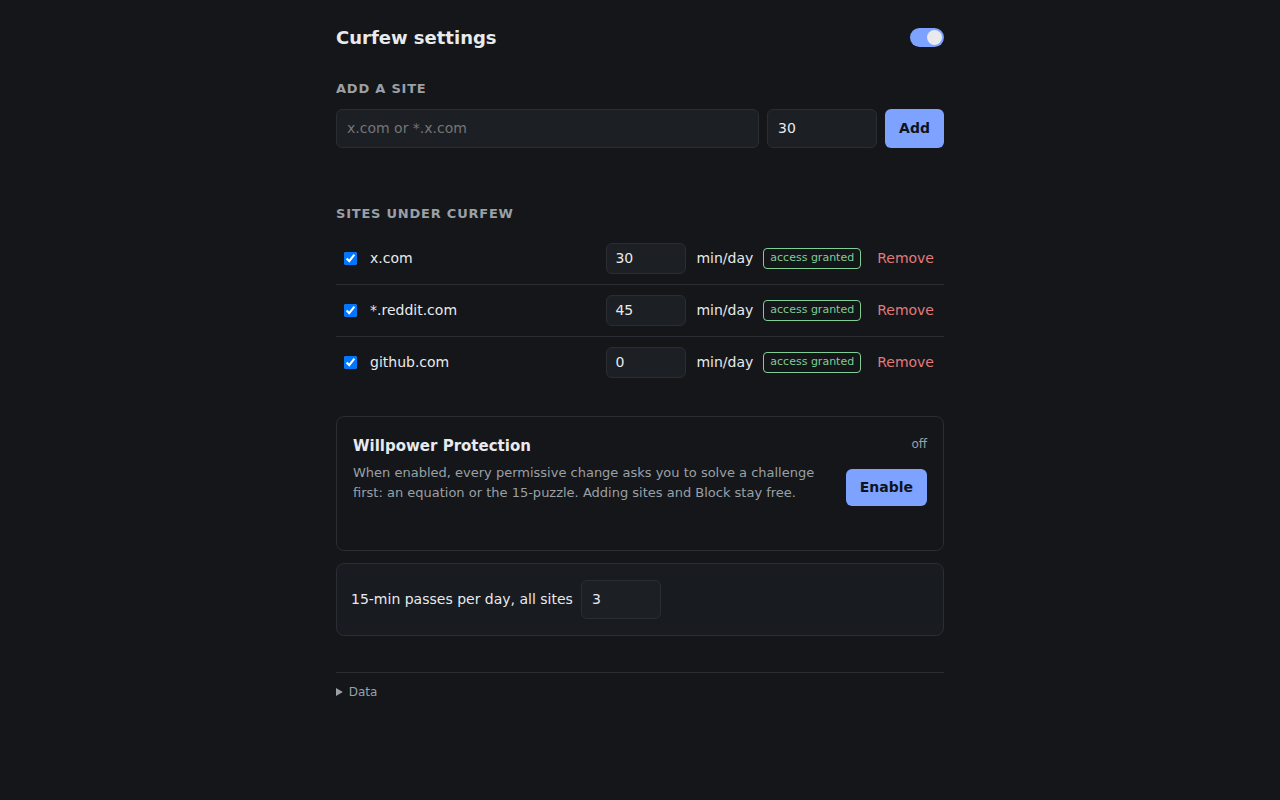
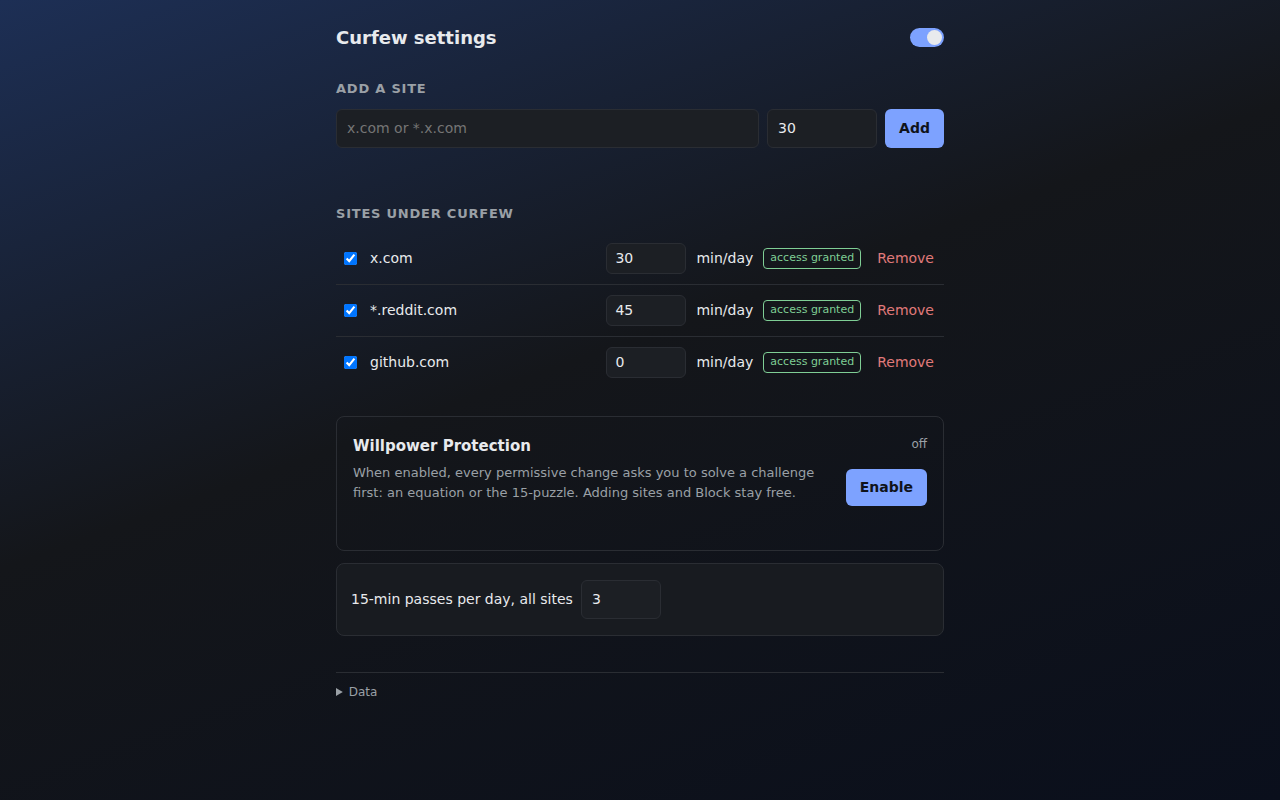
feat: protection gates relaxation only; stay-anyway is challenge-free; night gradients for wall/options

Changed region(s): [[0.0, 0.0, 0.7188, 0.4062]]

diff --git a/src/options.js b/src/options.js
@@ -117,17 +117,16 @@ function buildRow(item) {
   budget.value = item.budgetMinutes;
   budget.addEventListener("change", async () => {
     const v = Math.max(0, Math.min(1440, Number(budget.value) || 0));
-    const done = await guarded(async () => {
+    const apply = async () => {
       await update((state) => {
         const it = state.config.items.find((i) => i.id === item.id);
         if (it) it.budgetMinutes = v;
       });
-    });
-    if (!done) {
-      budget.value = item.budgetMinutes;
-      return;
-    }
-    budget.value = v;
+      budget.value = v;
+    };
+    if (v <= item.budgetMinutes) return apply();
+    const done = await guarded(apply);
+    if (!done) budget.value = item.budgetMinutes;
   });
 
   const unit = document.createElement("span");
@@ -301,16 +300,15 @@ els.protectToggle.addEventListener("click", async () => {
 els.passesLimit.addEventListener("change", async () => {
   const previous = (await load()).config.unblockPassesPerDay;
   const value = Math.max(0, Math.min(99, Number(els.passesLimit.value) || 0));
-  const done = await guarded(async () => {
+  const apply = async () => {
     await update((state) => {
       state.config.unblockPassesPerDay = value;
     });
-  });
-  if (!done) {
-    els.passesLimit.value = previous;
-    return;
-  }
-  els.passesLimit.value = value;
+    els.passesLimit.value = value;
+  };
+  if (value <= previous) return apply();
+  const done = await guarded(apply);
+  if (!done) els.passesLimit.value = previous;
 });
 els.export.addEventListener("click", exportData);
 

diff --git a/src/blocked.js b/src/blocked.js
@@ -2,7 +2,6 @@ import { load } from "./common/storage.js";
 import { dayKey } from "./common/time.js";
 import { parsePattern, matchesHost } from "./common/patterns.js";
 import { secondsUsedToday, passesLeftToday } from "./common/budget.js";
-import { guarded } from "./protect.js";
 
 const msg = (key) => chrome.i18n.getMessage(key);
 
@@ -50,24 +49,19 @@ async function init(domain) {
   stay.addEventListener("click", async () => {
     stay.disabled = true;
     let response;
-    const done = await guarded(async () => {
-      try {
-        response = await chrome.runtime.sendMessage({
-          type: "unblock:request",
-          itemId: item.id,
-        });
-      } catch {
-        response = null;
-      }
-      return Boolean(response?.ok);
-    });
-    if (done && response?.ok) {
+    try {
+      response = await chrome.runtime.sendMessage({
+        type: "unblock:request",
+        itemId: item.id,
+      });
+    } catch {
+      response = null;
+    }
+    if (response?.ok) {
       location.href = `https://${domain}/`;
     } else if (response?.reason === "limit") {
       stay.disabled = true;
       document.getElementById("hint").textContent = msg("limitReached");
-    } else if (!done) {
-      stay.disabled = false;
     } else {
       stay.disabled = false;
       document.getElementById("hint").textContent = msg("unblockFailed");

diff --git a/src/options.css b/src/options.css
@@ -14,7 +14,7 @@ body {
   max-width: 640px;
   margin: 0 auto;
   padding: 24px 16px;
-  background: var(--bg);
+  background: linear-gradient(160deg, #1d2f55 0%, #14161a 45%, #0a0f1c 100%) fixed;
   color: var(--fg);
   font: 14px/1.5 system-ui, sans-serif;
 }

diff --git a/src/blocked.css b/src/blocked.css
@@ -12,7 +12,7 @@ body {
   min-height: 100vh;
   display: grid;
   place-items: center;
-  background: var(--bg);
+  background: linear-gradient(135deg, #1d2f55 0%, #0a0f1c 75%);
   color: var(--fg);
   font: 16px/1.6 system-ui, sans-serif;
 }

diff --git a/docs/PROJECT.md b/docs/PROJECT.md
@@ -95,13 +95,13 @@ budget.
 - "Block now" (hard block without waiting for the budget) — free;
 - Adding sites: via the form or right-click → "Add this site to Curfew" —
   free;
-- **Protected mode** (optional): instead of a password, permissive actions
-  ask you to solve a challenge first — a multi-term equation with brackets
-  (5-7 terms, random every time, integer answer) or a 15-puzzle. The
-  choice is made once at enable time; solving again is required for stay
-  anyway, disabling a site or the app, budget edits, removes, import,
-  passes limit. Adding sites and Block stay free. The friction IS the
-  lock — deliberate by design.
+- **Protected mode** (optional): instead of a password, RELAXING the rules
+  asks you to solve a challenge first — a multi-term equation with brackets
+  (5-7 terms, random every time, integer answer) or a 15-puzzle: disabling
+  a site or the app, raising a budget or the passes limit, removes, import.
+  **Tightening stays free** (Block now, lower budgets), and so do adding
+  sites and planned 15-minute passes. The friction IS the lock — deliberate
+  by design.
 - Global daily cap on 15-min passes across all sites (default 3,
   0 = none).
 

diff --git a/docs/TECHNICAL_DESIGN.md b/docs/TECHNICAL_DESIGN.md
@@ -525,7 +525,9 @@ forms tested against tricky hosts (`||x.company/` must not match
 
 ### 9.4 Unblock window ("stay anyway")
 
-- Shown on the wall; in protected mode requires the password (guarded()).
+- Shown on the wall; PASS-through in protected mode — a 15-minute pass is
+  PLANNED use, not a relaxation, so no challenge is asked (the global
+  passes limit still applies).
   Pressing sets `runtime.unblockUntil[pattern] = now + unblockMinutes`,
   increments today's `unblocks[pattern]`, removes the rule, schedules the
   re-add alarm.
@@ -566,7 +568,7 @@ connection):
 | Message | From | Effect |
 |---|---|---|
 | `{type: "blockNow", itemId}` | popup | mark closed now → reconcile rules + redirect open tabs |
-| `{type: "unblock:request", itemId}` | blocked page | passes-limit check + challenge guard + policy (§9.4) → open window |
+| `{type: "unblock:request", itemId}` | blocked page | passes-limit check + policy (§9.4) → open window (no challenge: planned use) |
 | `{type: "flush"}` | any page | force usage flush |
 
 UI refresh: pages subscribe to `storage.onChanged` — no polling, no push

diff --git a/README.md b/README.md
@@ -42,9 +42,9 @@ YOU choose, with budgets YOU set. A curfew doesn't say "never". It says
   extension sleeps
 - **Stay anyway, honestly** — 15-minute passes exist on purpose, and every
   one of them is counted and shown in the dashboard
-- **Willpower Protection** — optional mode where every permissive change
-  asks you to solve a challenge first: a multi-term equation or the
-  15-puzzle. The friction IS the lock
+- **Willpower Protection** — optional mode where relaxing the rules asks
+  you to solve a challenge first: an equation or the 15-puzzle. The
+  friction IS the lock
 - **Active time only** — idle (60 s), unfocused windows and accidental
   hops don't count
 - **Local only** — no accounts, no sync, no analytics, no external calls.
